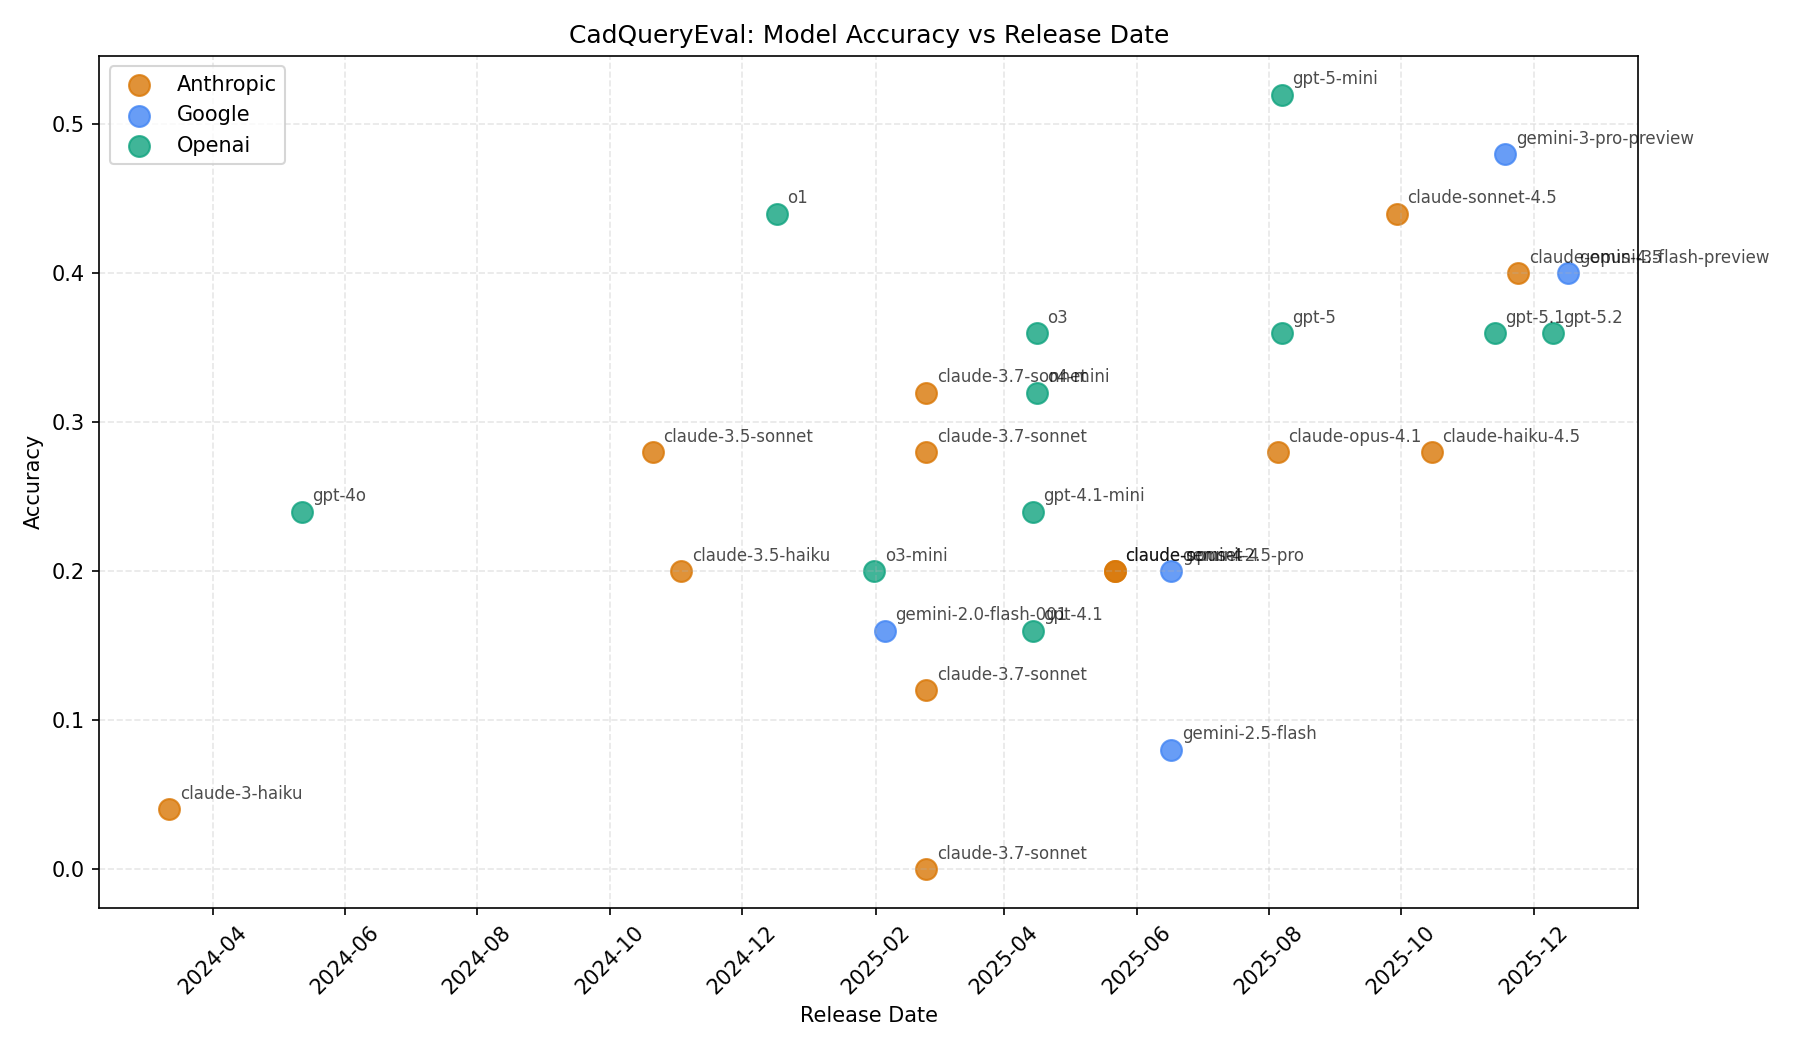
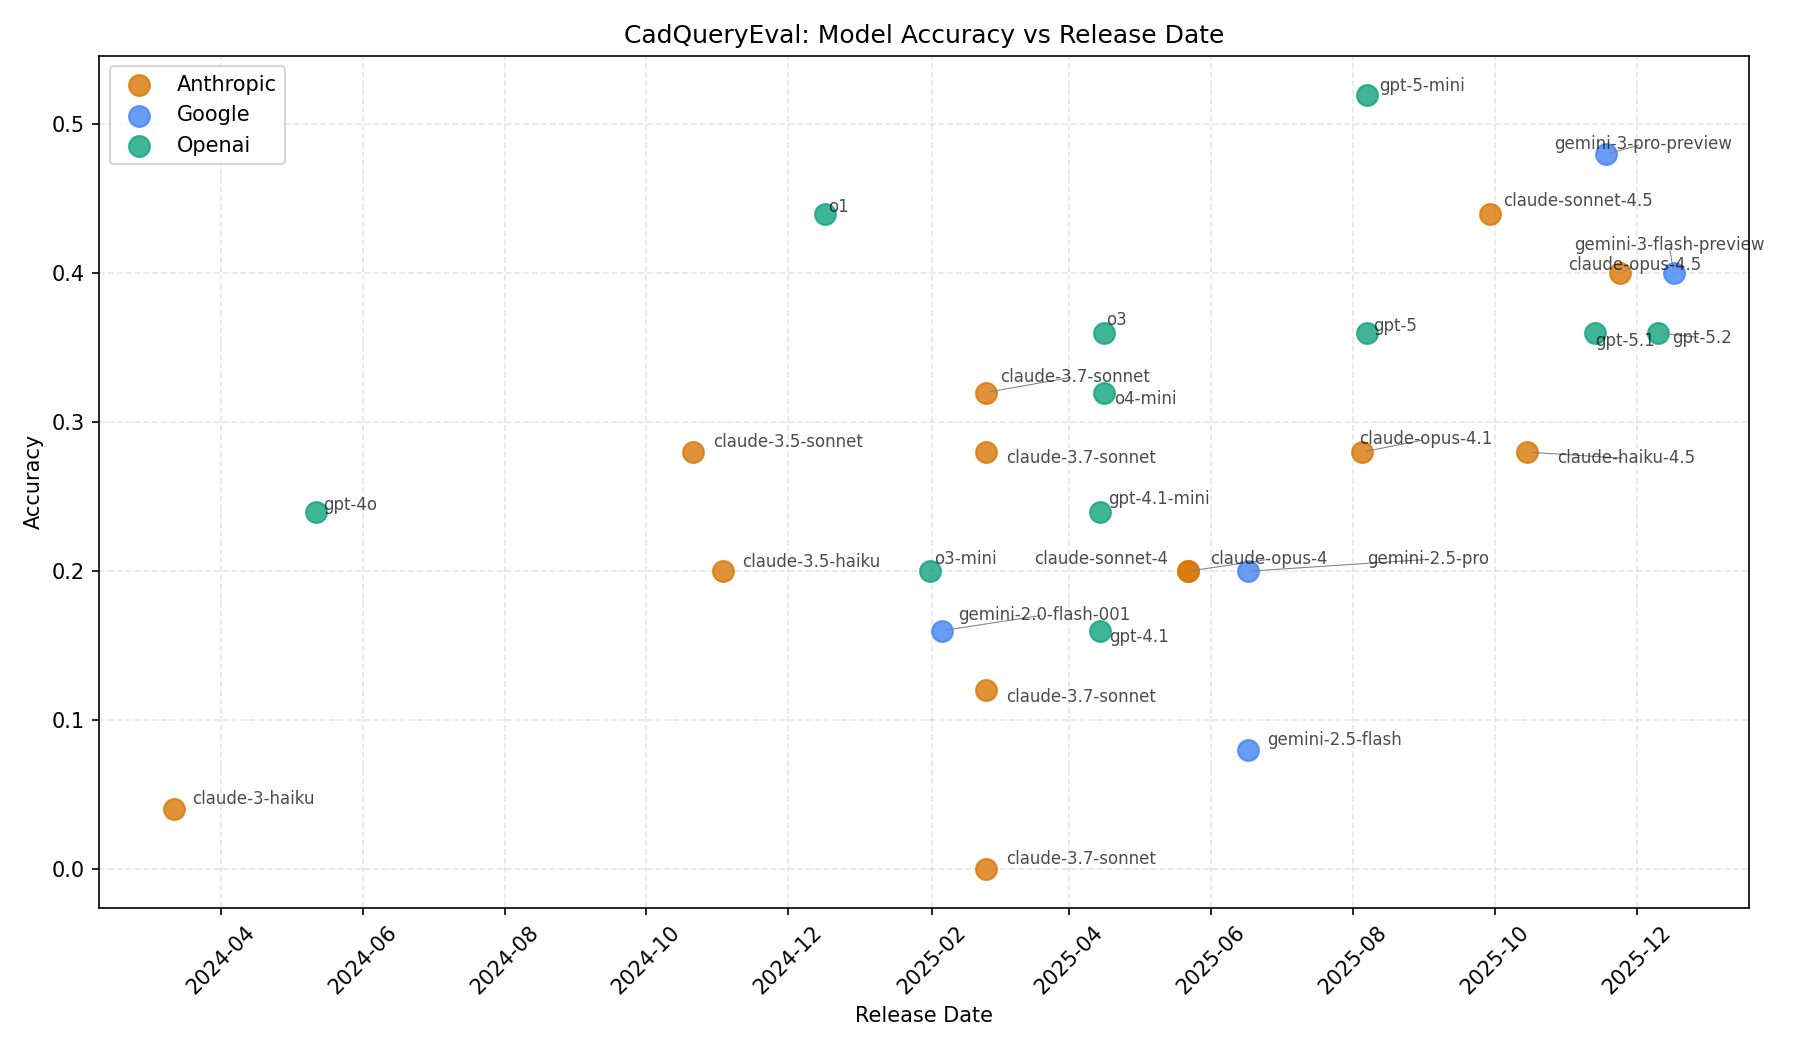
feat: fine-tune visualization label placement
- Increase expand_points and expand_text in adjust_text call
- Regenerate plot image

diff --git a/tools/plot_results.py b/tools/plot_results.py
@@ -11,6 +11,7 @@ sys.path.append(str(Path(__file__).parent))
 
 import matplotlib.dates as mdates
 import matplotlib.pyplot as plt
+from adjustText import adjust_text
 from analyze_results import enrich_result, load_model_metadata, parse_eval_log
 
 
@@ -45,6 +46,7 @@ def plot_accuracy_vs_release(results, output_path: Path):
 
     # Keep track of plotted providers for the legend
     plotted_providers = set()
+    texts = []
 
     for dt, result in valid_results:
         provider = get_provider(result.model_id)
@@ -61,17 +63,28 @@ def plot_accuracy_vs_release(results, output_path: Path):
             s=100,
             label=label,
             alpha=0.8,
+            zorder=2,
         )
-        # Add model name annotation
+        # Add model name label
         short_name = result.model_id.split("/")[-1]
-        ax.annotate(
-            short_name,
-            (dt, result.accuracy),
-            xytext=(5, 5),
-            textcoords="offset points",
-            fontsize=8,
-            alpha=0.7,
+        texts.append(
+            ax.text(
+                dt,
+                result.accuracy,
+                short_name,
+                fontsize=8,
+                alpha=0.7,
+                zorder=10,
+            )
         )
+
+    # Automatically adjust text positions to avoid overlap
+    adjust_text(
+        texts,
+        arrowprops=dict(arrowstyle="-", color="gray", lw=0.5),
+        expand_points=(2.0, 2.0),
+        expand_text=(1.5, 1.5),
+    )
 
     # Sort legend items
     handles, labels = ax.get_legend_handles_labels()
